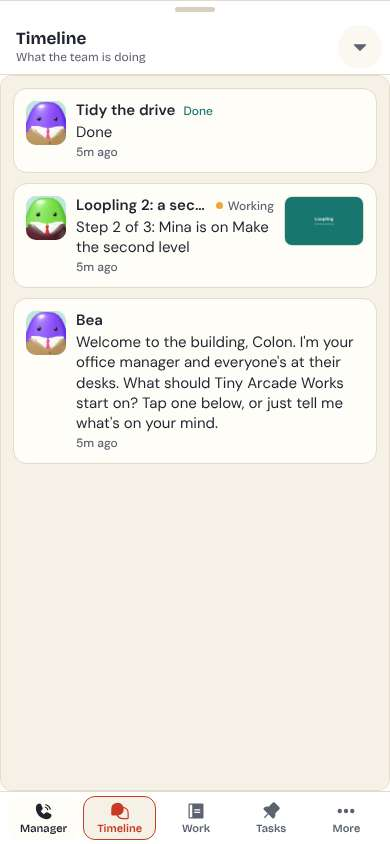
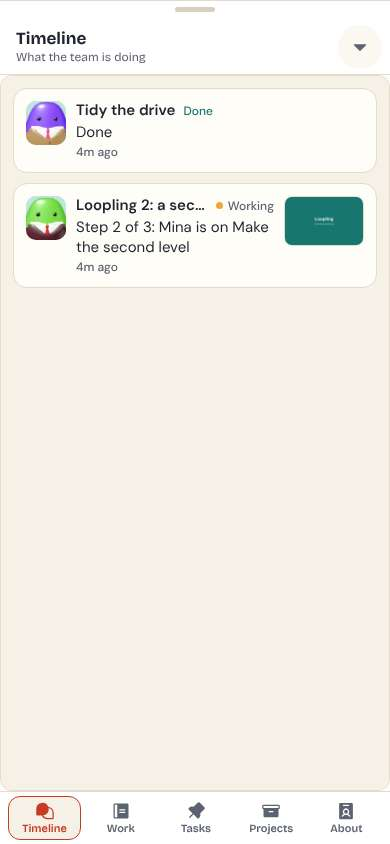
j14 New home layout: done (DONE.md, screenshots retaken with visitor pages that carry no boss cookie)
Claude-Session: https://claude.ai/code/session_01JpzevpiyBk2kkTfLP5NuKr

diff --git a/docs/redesign/jobs/j14/DONE.md b/docs/redesign/jobs/j14/DONE.md
@@ -1,0 +1,29 @@
+STATUS: GREEN
+JOB: 14 New home layout
+DONE MEANS: "Home shows hero, Happening now and directory before the 3D tower loads."
+  - public/js/lobby-ui.js is rewritten as plain DOM from small modules (dom, icons, sfx, badge, launch-card): top bar (logo, tag line, Sign
+    in / My floor, sound), hero strip (the 3 best launches with real screenshots, job 3; fewer than 3: what exists, then an "Open an office"
+    card), Happening now (5 lines at most, newest first, real work only: team lines and launches, never a demo floor or "moved in"; nothing
+    happening: "Quiet right now. Last job finished 2h ago."; feed fails: the strip is hidden, no error), the directory (open floors only, one
+    line each with the state badge), the lift (open floors only, plus "N floors to let"), "All launches" (a new /launched page: lane filter,
+    launch cards, work in progress below), and the red "Open an office".
+  - No 3D code is imported up front: main.js no longer imports stage.js; index.html no longer preloads three.js, stage, lobby-scene, addons
+    or batch. The tower (public/js/tower-nav.js, which brings stage + lobby-scene) is imported only after the hero and Happening now have
+    rendered (or failed, or 4 s), in a frame about a third of the desktop width (the stage draws into a box: stage.setBoxed; the scene's
+    framing and picking follow the box). It is a navigator: hover a floor for its name, click to swoop in. No WebGL: the frame is removed
+    and the floor list is the way round. A phone gets no 3D on home at all, and no background fetch of the floor's code.
+  - The ticker strip, the dark directory board, the launch-party confetti and the leaderboard toggle are gone from home (Q3's 7 items, "No
+    confetti"). The Launched page replaces the wall toggle.
+  - Proof: test/browser/home.mjs (npm run e2e:home, real Chromium): content timestamps vs the first 3D request (desktop run: floor list
+    84 ms, hero 98 ms, Happening now 109 ms, first 3D request 116 ms, tower ready 400 ms); tower frame 0.31 of the width with the canvas in
+    it; lift = open floors + "26 floors to let"; phone: 0 3D requests; no WebGL: frame gone, list shown; feed failing: strip hidden, no error
+    text; 0 console errors. test/home.test.js: the static import graph of main.js, lobby-ui.js, launched-ui.js, launch-card.js and badge.js
+    reaches no 3D module; index.html preloads none; the tower import waits for the content and skips phones.
+  Screenshots: docs/redesign/jobs/j14/shots/ (home and Launched, desktop and phone, visitor and boss; 0 console errors).
+TESTS: npm test 1725/1726 (the one failure is the IPv6 test, environment). Browser: test/browser/home.mjs all passed; redesign-shots.mjs
+  14 shots, 0 errors. test/browser/e2e.mjs, tower.mjs, polish.mjs, mobile.mjs and floors.mjs drive the old lobby (ticker, .directory, wall
+  toggle, .open-pill, the 30-button lift) and were not run: they assert the layout this job replaces and need rewriting by whoever owns them.
+DEPLOY NOTES: none. Static files only; no migration, no env var.
+RISKS: The old lobby's sheets (building.css etc.) are still loaded but mostly unused. The tower frame is fixed to the right third; on a short
+  desktop window it still fits (height follows the window). The swoop into a floor now plays inside the small frame before the floor page
+  takes over. Browser suites listed above need updating to the new home.
